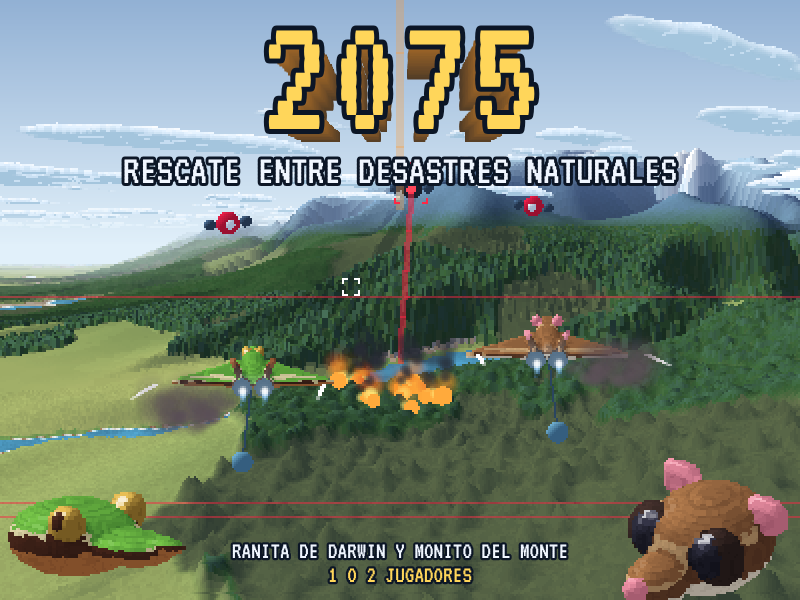
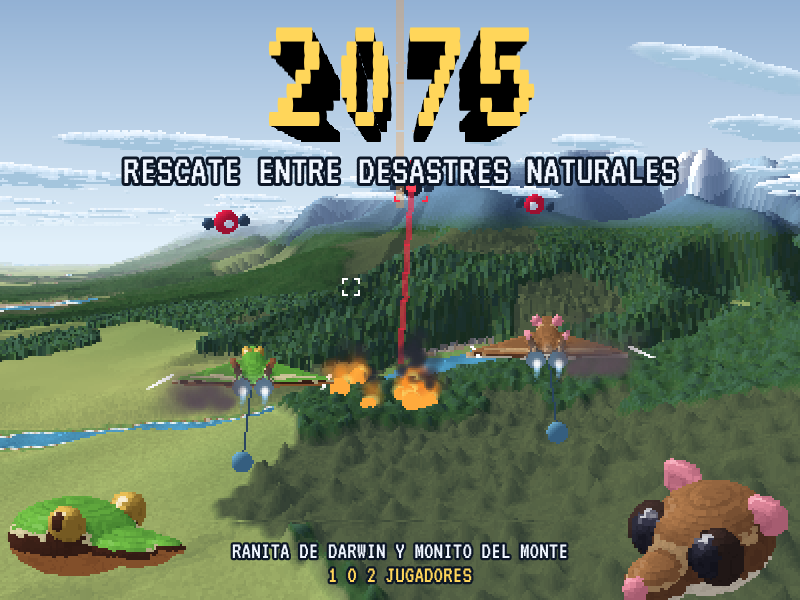
Título sin contorno y con sombra negra; el tonel se llama giro

diff --git a/game.js b/game.js
@@ -1183,7 +1183,7 @@ function modelPoint(f, ma, mb, mc, out, o) {
 }
 
 function spawnDrone(k) {
-  if (k) tell(0, '¡UN DRON HACKER! DERRÍBALO O HAZ\nUN TONEL ANTES DE QUE ENTRE.', 2);
+  if (k) tell(0, '¡UN DRON HACKER! DERRÍBALO O HAZ UN\nGIRO (BOTÓN 2 O 3) ANTES DE QUE ENTRE.', 2);
   // they come in from one flank or the other, tougher as the flight goes on; the first ones
   // hold their fire a while, and a hacker takes enough killing to get its hack started
   drones.push({ k, hp: k ? 12 : 2 + Math.min(3, (gT / 90) | 0), r: k ? 1.9 : 1.5, a: 40 + rand() * 40, s: rand() < 0.5 ? -110 : 110, u: 8, ta: 50, ts: 0, tu: 4, nt: 0, cd: gT < 30 ? 6 : 1.5 + rand(), ch: 0, x: 0, y: 0, z: 0 });
@@ -2663,7 +2663,7 @@ function key(n, x, y) {
 }
 // The cabinet's panel as it is laid out, with what each control does: the stick to the left,
 // and two rows of three buttons (the sixth has no use).
-const PANEL = ['DISPARO', 'TONEL IZQ', 'TONEL DER', 'IMPULSO', 'AGUA'];
+const PANEL = ['DISPARO', 'GIRO IZQ', 'GIRO DER', 'IMPULSO', 'AGUA'];
 function panel(y) {
   key(0, CXS - 82, y + 18);
   text('VOLAR', CXS - 82, y + 26, INK, 1, 1);
@@ -2677,10 +2677,10 @@ function panel(y) {
   }
 }
 
-// The game's name in solid letters: copies of it laid one behind another, each smaller and
-// lower, running back to a vanishing point under the middle of it.
+// The game's name in solid letters with no edge: black copies of it laid one behind another,
+// each smaller and lower, run back to a vanishing point under the middle of it.
 function logo(y) {
-  for (let i = 16; i >= 0; i--) text('2075', CXS, y + i * 1.5, i ? mix(pack(176, 112, 40), EDGE, i * 9) : GOLD, 5, 1, i).setScale(1 - i * 0.016);
+  for (let i = 16; i >= 0; i--) text('2075', CXS, y + i * 1.5, i ? pack(0, 0, 0) : GOLD, 5, 1, 1).setScale(1 - i * 0.016);
 }
 
 // A name beside a mark: what it is, and what to do about it.
@@ -2905,7 +2905,7 @@ function drawHud() {
     text('AGITA LA PALANCA Y MACHACA B1', CXS, 74, INK, 1, 1);
     gauge(CXS - 78, 88, 156, gPurge, INK);
   } else if (gChan > 0) {
-    text('HACKEO ENTRANTE: TONEL O DISPARA', CXS, 48, colRed, 2, 1);
+    text('HACKEO ENTRANTE: GIRA O DISPARA', CXS, 48, colRed, 2, 1);
     gauge(CXS - 78, 66, 156, gChan, colRed);
   } else if (gMsgT > 0) text(gMsg, CXS, 48, INK, gMsg.length > 30 ? 1 : 2, 1);
 
